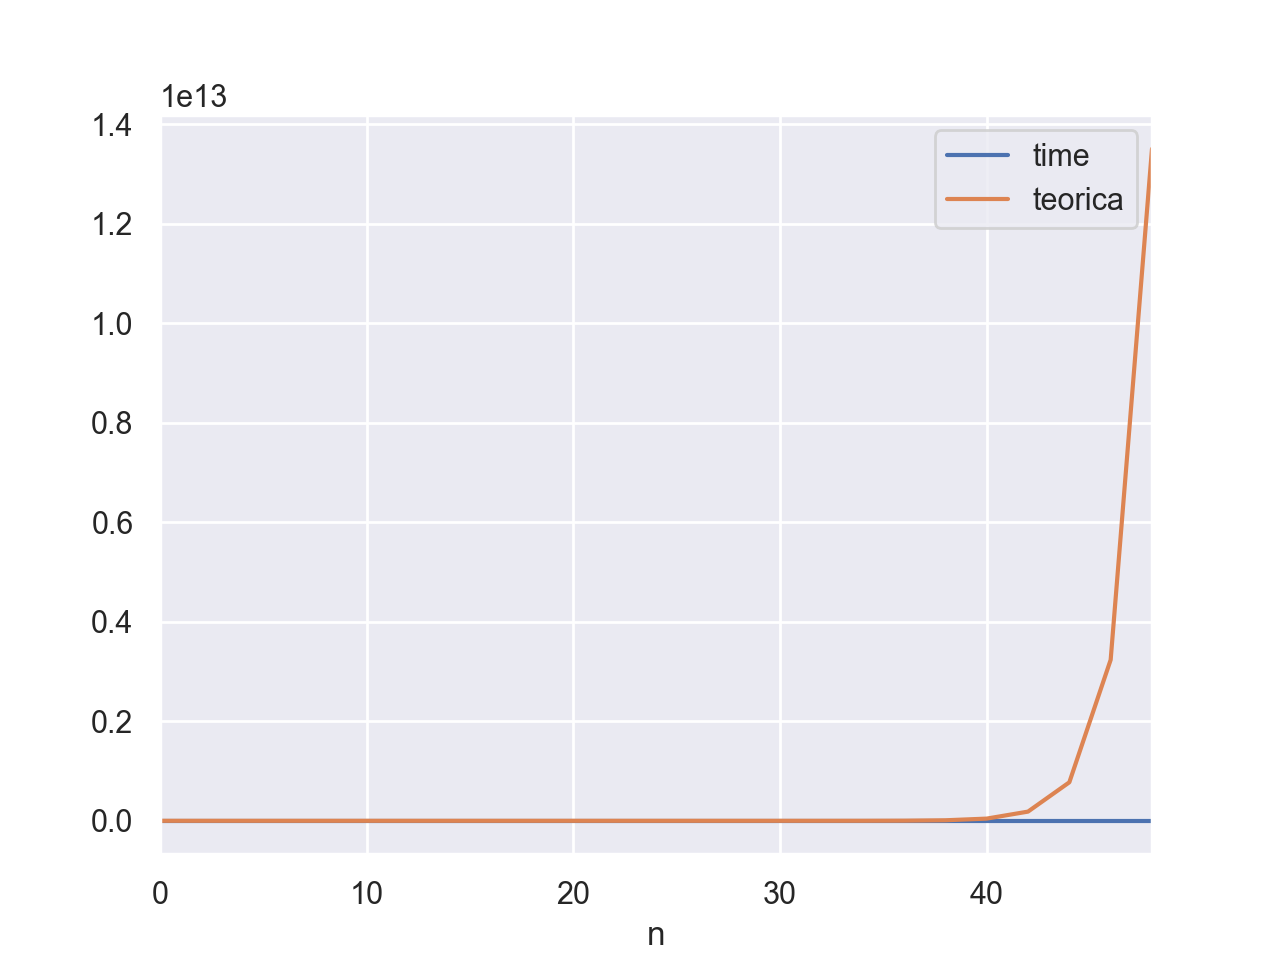
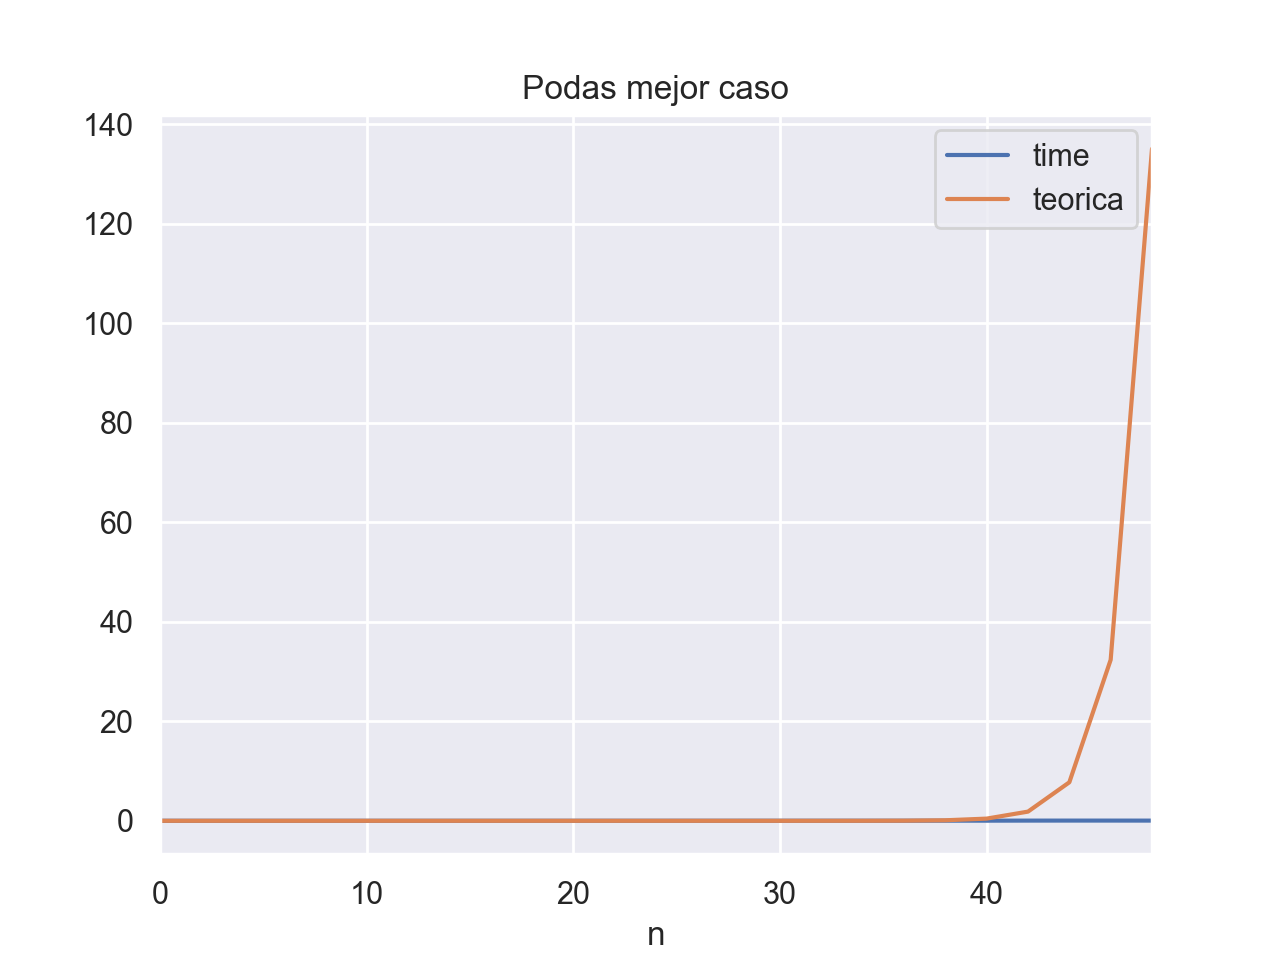
bk

diff --git a/exp/backtracking/conPodas/exp_bt_podas_mejor_plotter.py b/exp/backtracking/conPodas/exp_bt_podas_mejor_plotter.py
@@ -7,9 +7,9 @@ df = pd.read_csv("times_bt_podas_mejor_caso.csv")
 
 # Nano -> Milli
 df['time']  /= 1000000.0
-df['teorica'] = 0.001*df['n'] * 2**(df['n'])
+df['teorica'] = 0.00000000000001*df['n'] * 2**(df['n'])
 
-df.plot('n', ['time', 'teorica'])
+df.plot('n', ['time', 'teorica'], title='Podas mejor caso')
 
 ax1 = sns.lmplot(x='time', y='teorica', data=df);
 plt.xlabel("T(n)");

diff --git a/exp/backtracking/conPodas/exp_bt_podas_peor_plotter.py b/exp/backtracking/conPodas/exp_bt_podas_peor_plotter.py
@@ -7,9 +7,9 @@ df = pd.read_csv("times_bt_podas_peor_caso.csv")
 
 # Nano -> Milli
 df['time']  /= 1000000.0
-df['teorica'] = 0.001*df['n'] * 2**(df['n'])
+df['teorica'] = 0.0000000001*df['n'] * 2**(df['n'])
 
-df.plot('n', ['time', 'teorica'])
+df.plot('n', ['time', 'teorica'], title='Podas peor')
 
 ax1 = sns.lmplot(x='time', y='teorica', data=df);
 plt.xlabel("T(n)");

diff --git a/exp/backtracking/sinPodas/exp_middle_plotter.py b/exp/backtracking/sinPodas/exp_middle_plotter.py
@@ -7,7 +7,7 @@ df = pd.read_csv("times_backtraking_sin_podas.csv")
 
 # Nano -> Milli
 df['time']  /= 1000000.0
-df['teorica'] = 0.001*df['n'] * 2**(df['n'])
+df['teorica'] = 0.0000007*df['n'] * 2**(df['n'])
 
 df.plot('n', ['time', 'teorica'])
 
